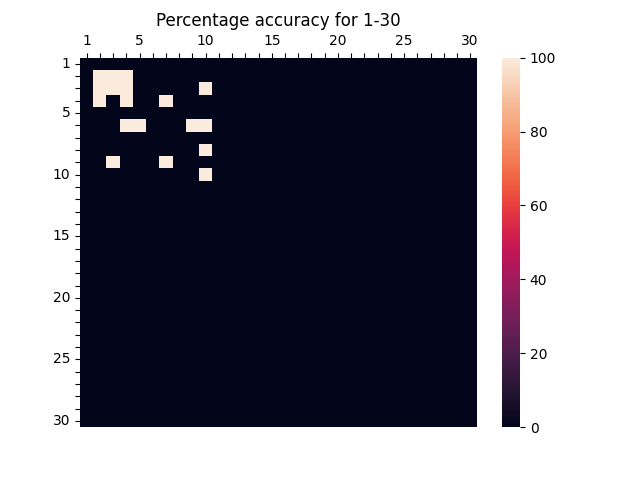
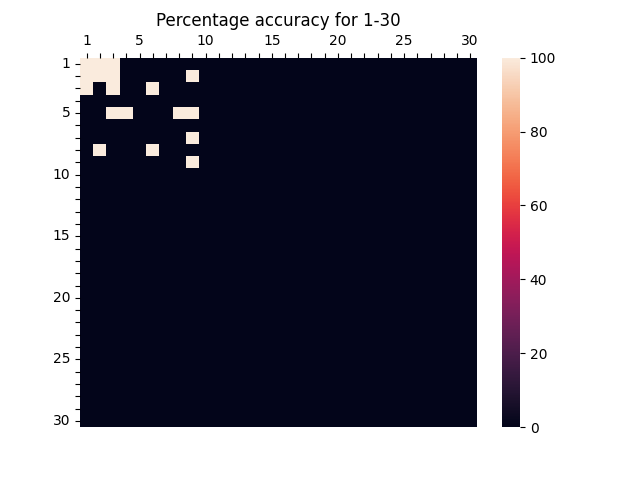
Fixed bug with heat map

Changed region(s): [[0.125, 0.0938, 0.3438, 0.375], [0.125, 0.2812, 0.1875, 0.375], [0.2812, 0.125, 0.3438, 0.2188]]

diff --git a/src/main.py b/src/main.py
@@ -12,15 +12,15 @@ import numpy as np
 class MathsTracker:
     def __init__(self):
         print("Welcome to MathsTracker")
-        
+
         self.limits = 50
 
         #self.createDefaultJSON()
 
         self.loadJSON()
-        self.commands()
-        self.run()
-        self.saveJSON()
+        # self.commands()
+        # self.run()
+        # self.saveJSON()
         self.createGraphs()
 
     def loadJSON(self):
@@ -101,9 +101,9 @@ class MathsTracker:
     def get2DArray(self, heat_range):
         numpy_data = np.zeros((heat_range, heat_range), dtype=np.float32)
 
-        for row in range(1, heat_range):
-            for col in range(1, heat_range):
-                numpy_data[row][col] = self.getPercentage(self.data[str(row)][str(col)])
+        for row in range(0, heat_range):
+            for col in range(0, heat_range):
+                numpy_data[row][col] = self.getPercentage(self.data[str(row+1)][str(col+1)])
         
         return numpy_data 
 
